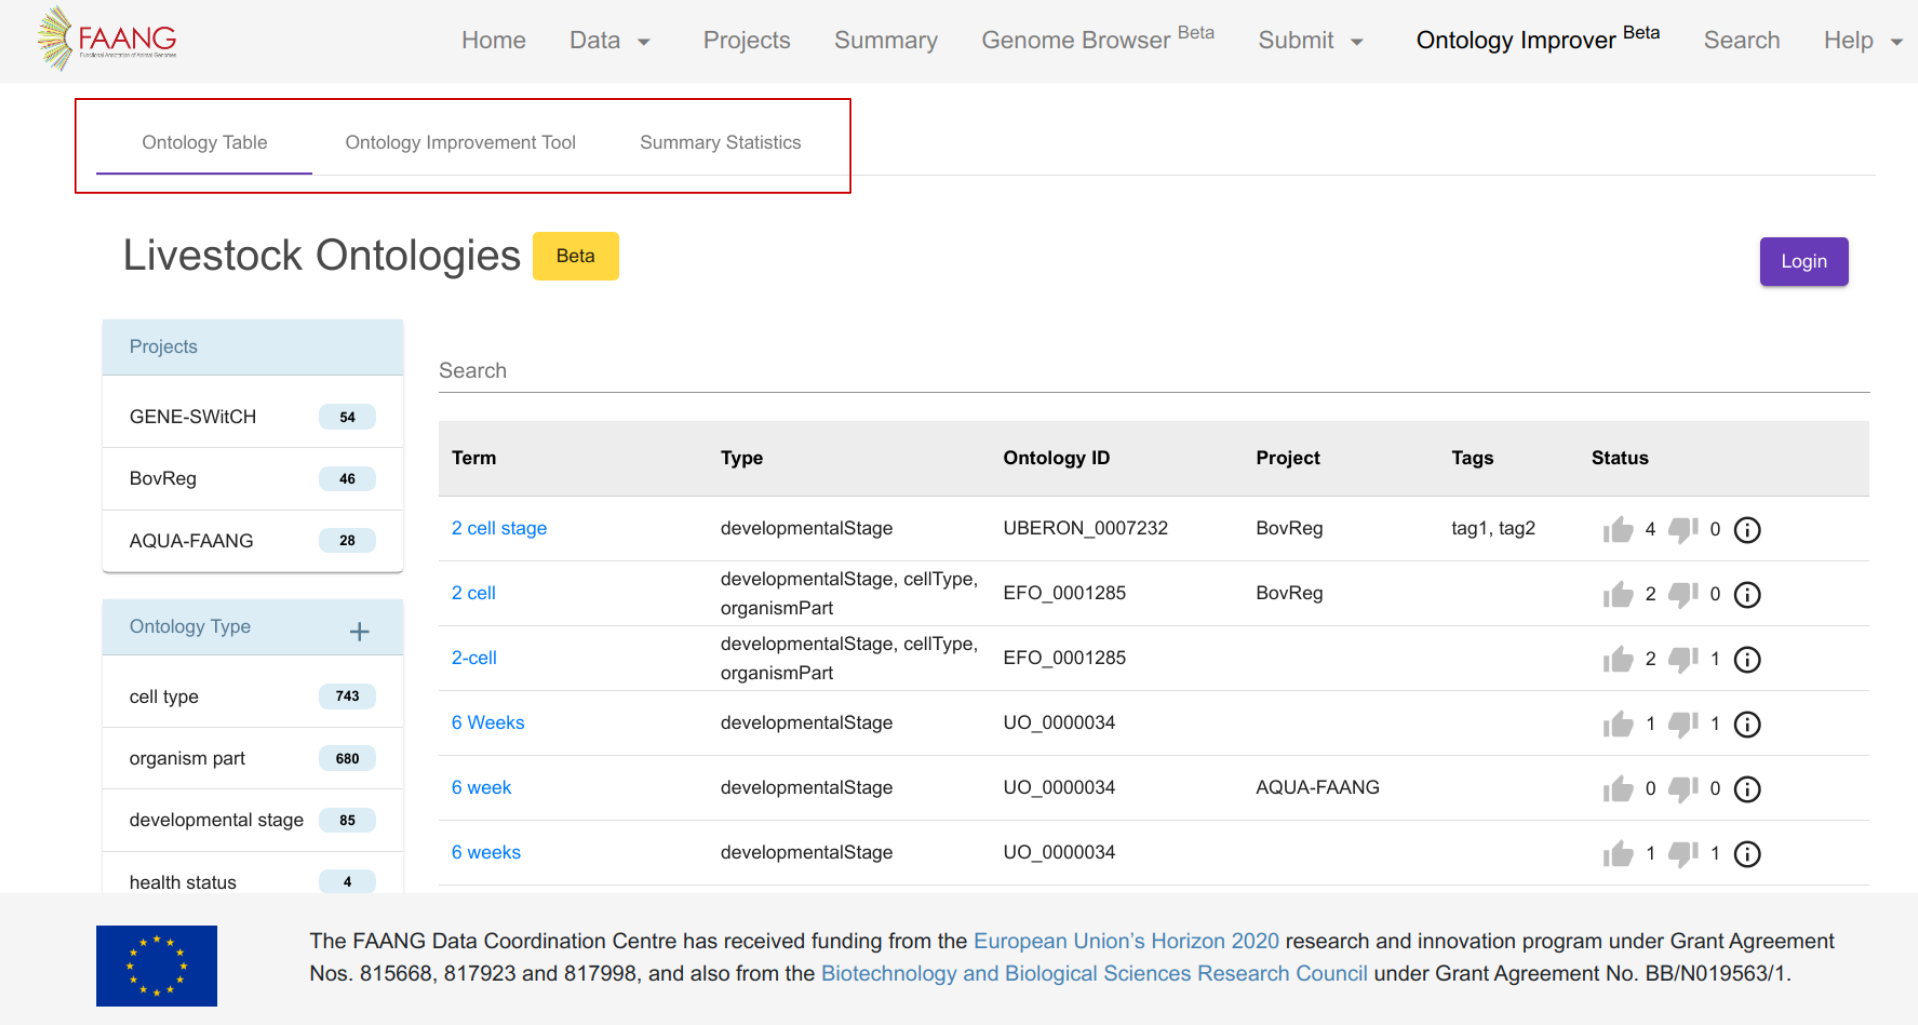
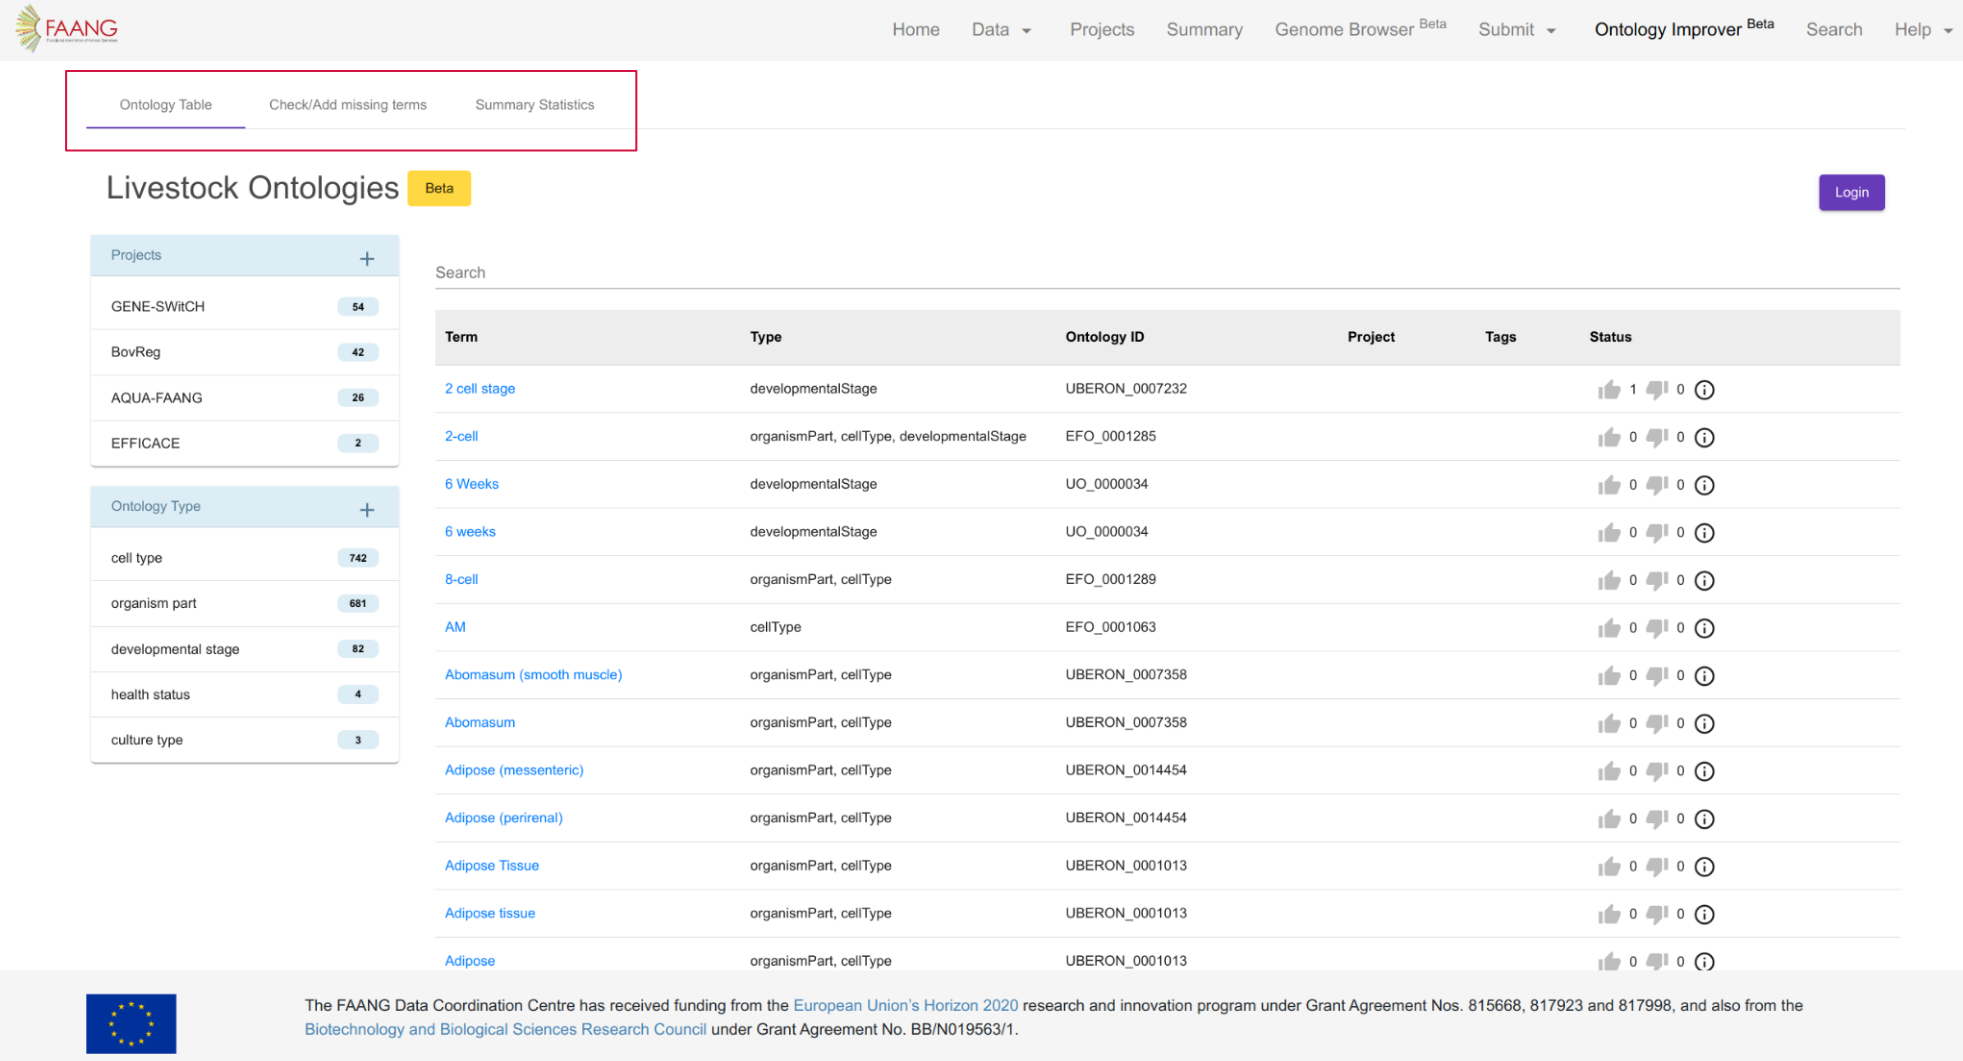
update doc for ontology tab name

diff --git a/docs/ontology/missing_terms.md b/docs/ontology/missing_terms.md
@@ -1,11 +1,11 @@
-## Improvement Tool
+## Check/Add missing terms
 
-The 2nd tab navigates to the improvement tool that allows you to add new ontologies.
+The 2nd tab navigates to the tool that allows you to check for and add missing ontologies.
 
 Enter ontology terms in the text box as shown below. If you want to search for multiple ontologies, enter one term in each line and click on the **Search** button.
 
 <p style="text-align: center; margin: 15px 0;">
-  <img src="../../img/ont_improver_search.png" width="100%" />
+  <img src="../../img/check_add_missing_terms.png" width="100%" />
 </p>
 
 Ontologies that already exist will be listed in the **Existing terms** section as shown below. You can edit/validate ontologies from this table in the same way as described previously.
